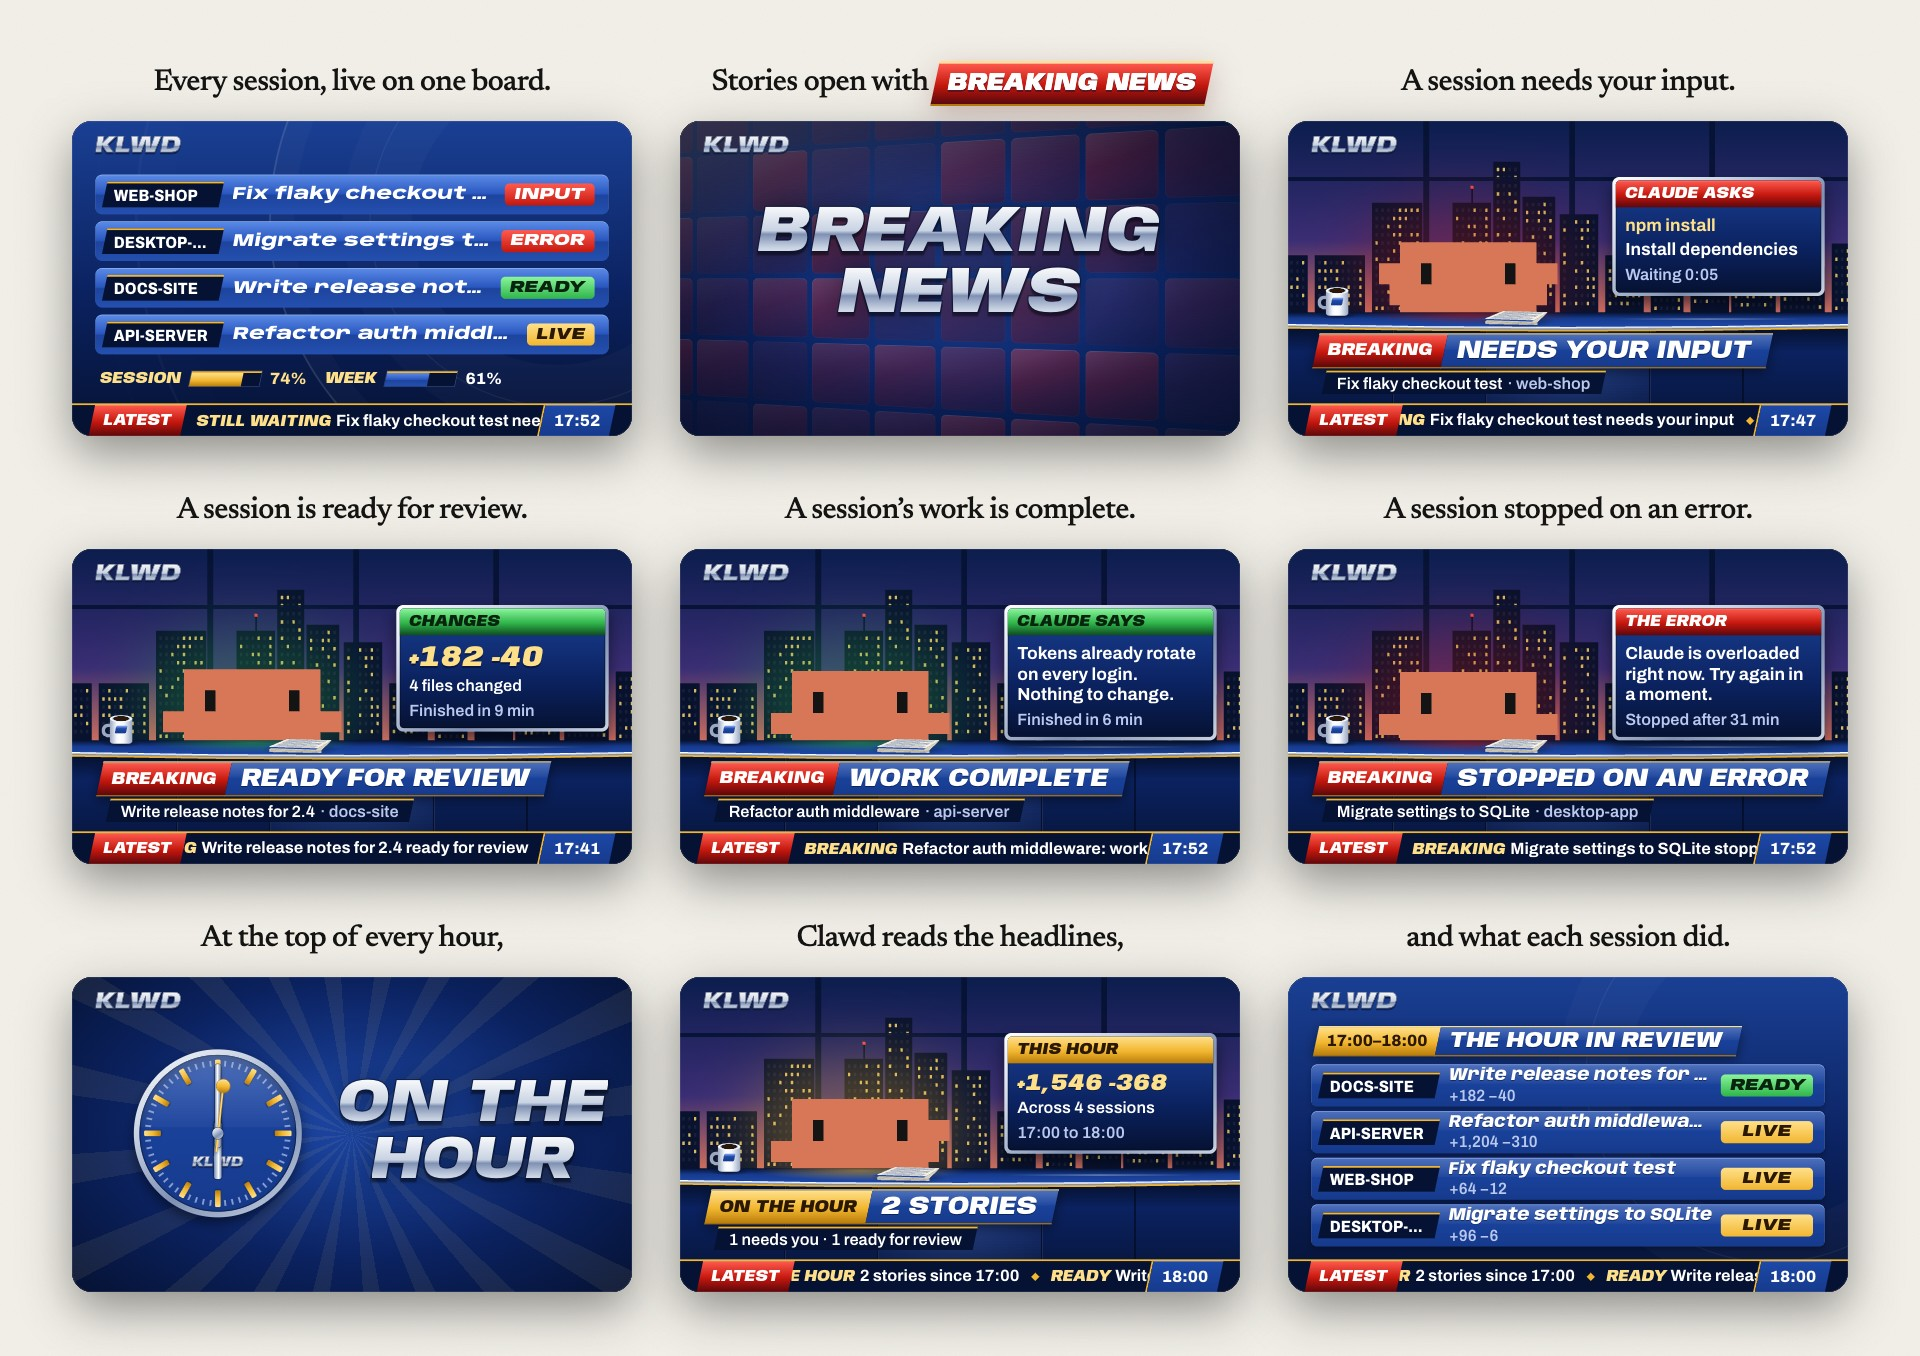
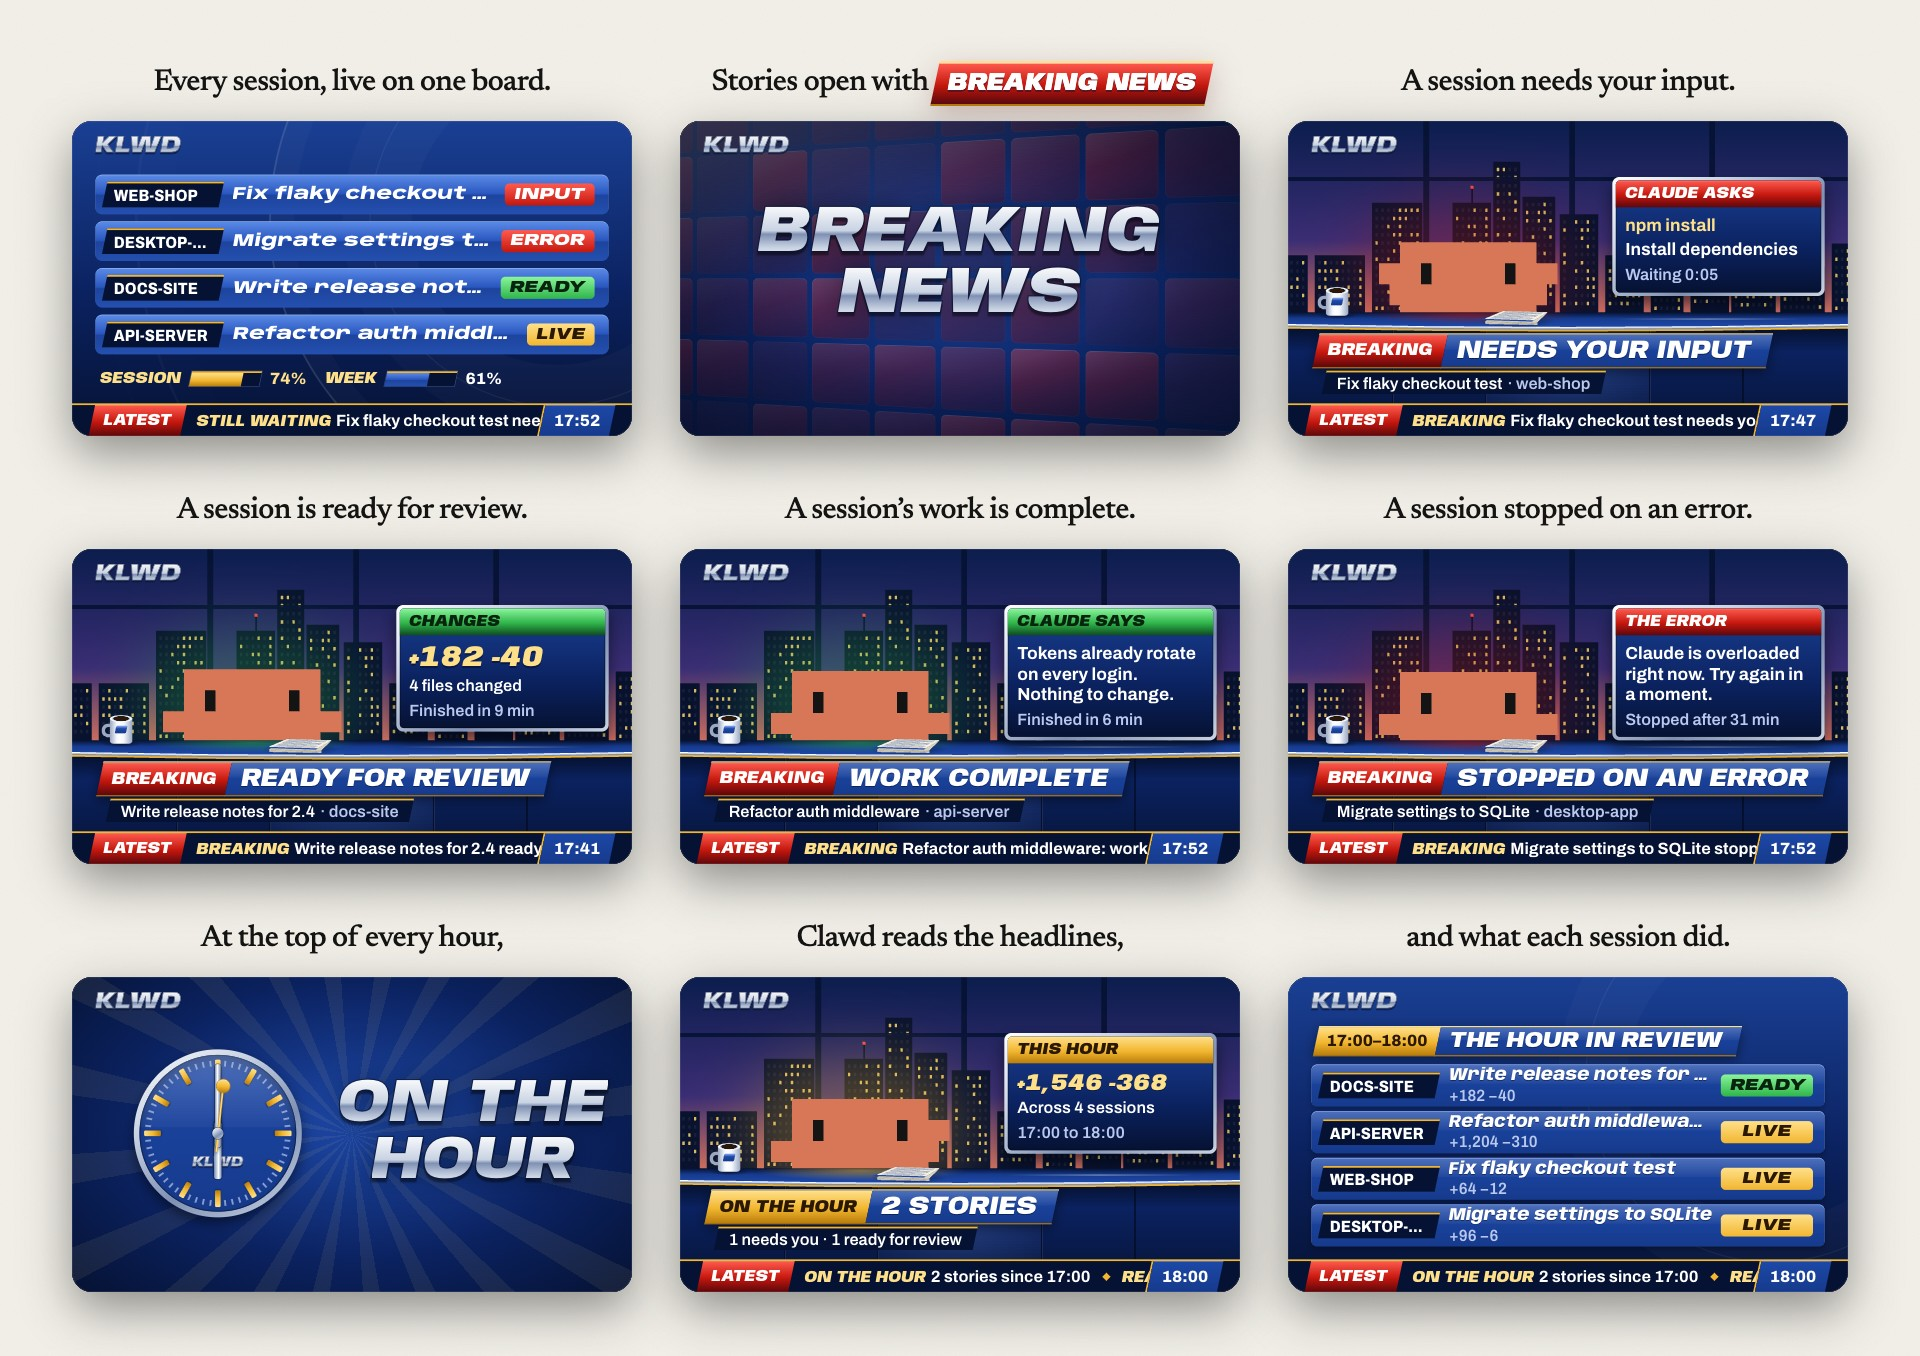
[FIX]: every crawl in the README's own KLWD pictures starts from its first item, so no word is cut at its edge

diff --git a/video/src/readme/Readme.tsx b/video/src/readme/Readme.tsx
@@ -32,7 +32,7 @@ import { DeskScreen } from '../scenes/Desk.tsx'
 import { WIDE } from '../stage/Frame.tsx'
 import type { View } from '../stage/Frame.tsx'
 import { Screen } from '../stage/Screen.tsx'
-import { AUTH, CHECKOUT, NOTES, SQLITE } from '../stories.ts'
+import { AUTH, CHECKOUT, DESK_READY, HOUR_DESK, HOUR_REVIEW, NOTES, SQLITE, boardReady, deskAsk } from '../stories.ts'
 
 /** Every grid is 1920 wide; its height follows from its rows */
 export const GRID_W = 1920
@@ -183,7 +183,7 @@ function Staged({ hover = 0, opacity = 1, pointer }: StagedProps) {
       claude={{ tuned: true }}
       clock="Sat Oct 25  5:43 PM"
       time={33}
-      pip={{ frame: BR, content: <AirAt T={33} />, hover, opacity, side: 'right' }}
+      pip={{ frame: BR, content: <OnAir scene={boardReady('17:43', true)} t={5} clock={33} crawl={0} />, hover, opacity, side: 'right' }}
       cursor={pointer}
     />
   )
@@ -277,16 +277,17 @@ const IN_USE: Tile[] = [
   { caption: { text: 'One click takes you back to the question.' }, picture: desk(45.95, { x: 780, y: 560, zoom: 1.4 }) },
 ]
 
+// Every crawl here is drawn from its first item, so no word is cut at its left edge
 const ON_AIR: Tile[] = [
   { caption: { text: 'Every session, live on one board.' }, picture: air(<OnAir scene={BOARD} t={3} clock={4.2} crawl={0} />) },
   { caption: { text: 'Stories open with', tab: 'BREAKING NEWS' }, picture: air(<AirAt T={39.45} />) },
-  { caption: { text: 'A session needs your input.' }, picture: air(<AirAt T={42.5} />) },
-  { caption: { text: 'A session is ready for review.' }, picture: air(<AirAt T={6.9} />) },
+  { caption: { text: 'A session needs your input.' }, picture: air(<OnAir scene={deskAsk(5.6)} t={2.6} clock={42.5} crawl={0} />) },
+  { caption: { text: 'A session is ready for review.' }, picture: air(<OnAir scene={DESK_READY} t={3} clock={6.9} crawl={0} />) },
   { caption: { text: 'A session’s work is complete.' }, picture: air(<OnAir scene={DESK_COMPLETE} t={3} clock={3} crawl={0} />) },
   { caption: { text: 'A session stopped on an error.' }, picture: air(<OnAir scene={DESK_ERROR} t={3} clock={3} crawl={0} />) },
   { caption: { text: 'At the top of every hour,' }, picture: air(<AirAt T={56.5} />) },
-  { caption: { text: 'Clawd reads the headlines,' }, picture: air(<AirAt T={59.8} />) },
-  { caption: { text: 'and what each session did.' }, picture: air(<AirAt T={61.5} />) },
+  { caption: { text: 'Clawd reads the headlines,' }, picture: air(<OnAir scene={HOUR_DESK} t={2.3} clock={59.8} crawl={0} />) },
+  { caption: { text: 'and what each session did.' }, picture: air(<OnAir scene={HOUR_REVIEW} t={1.5} clock={61.5} crawl={0} />) },
 ]
 
 const WINDOW: Tile[] = [
